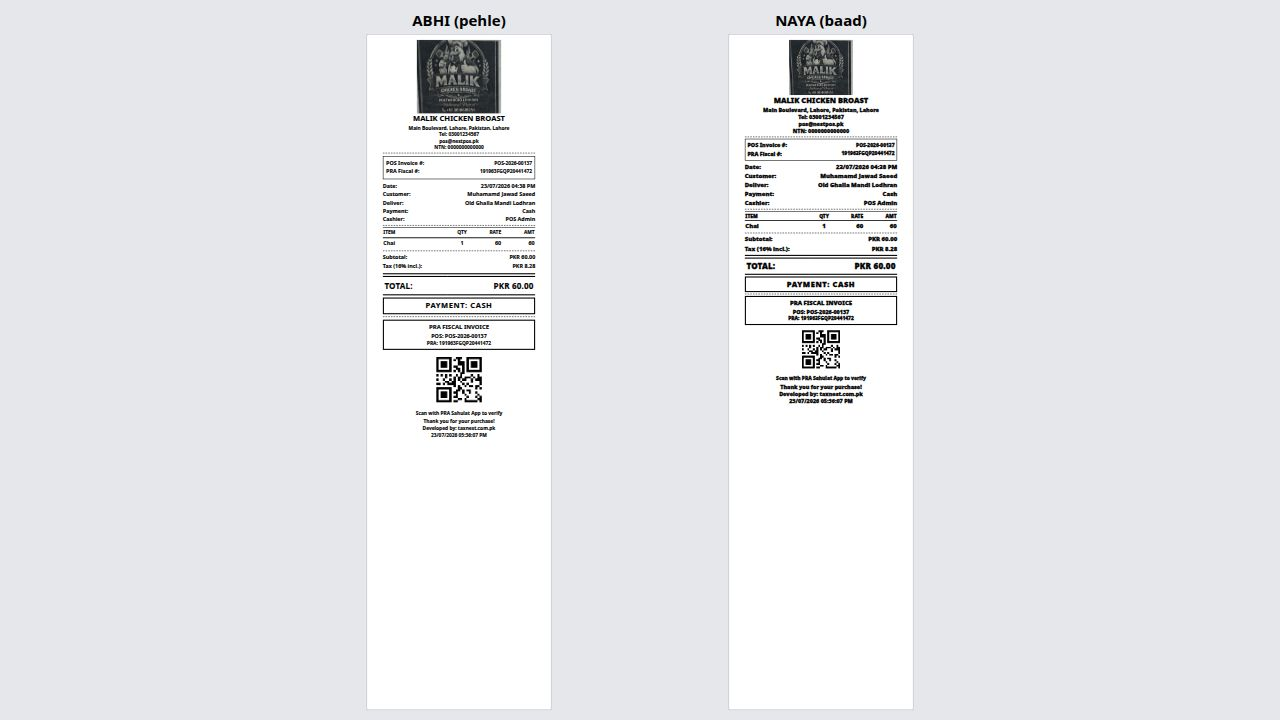
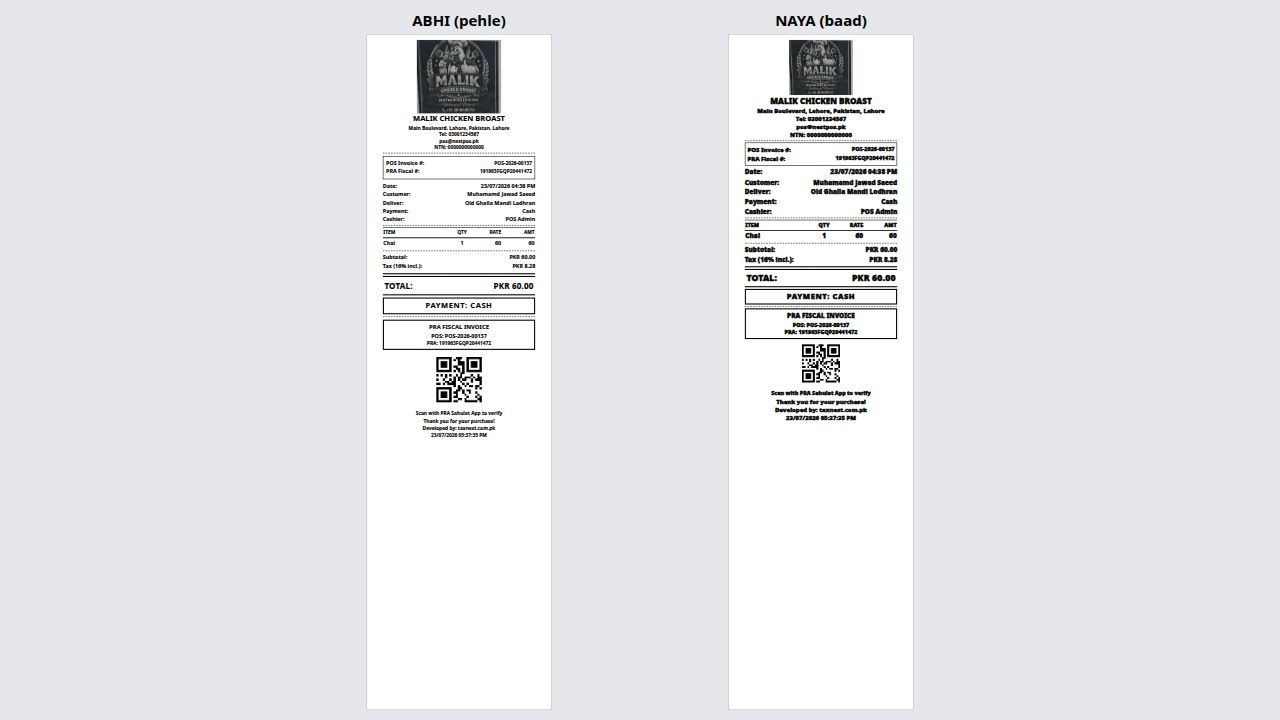
Improve receipt readability with bolder, clearer text and adjusted font sizes
Updated the 80mm receipt preview by increasing font sizes and stroke weights to enhance boldness and clarity, and updated the corresponding metadata and screenshot.

Replit-Commit-Author: Agent
Replit-Commit-Session-Id: 32ef7f7e-58d1-4e86-a1a3-f1c710f5c239
Replit-Commit-Checkpoint-Type: full_checkpoint
Replit-Commit-Event-Id: b35187a6-4695-4494-92fa-3cccfcc978b2
Replit-Commit-Screenshot-Url: https://storage.googleapis.com/screenshot-production-us-central1/deeb2ffc-615d-44ed-a0cd-b1cde9f84756/32ef7f7e-58d1-4e86-a1a3-f1c710f5c239/bzFriZn
Replit-Helium-Checkpoint-Created: true

Changed region(s): [[0.5625, 0.1222, 0.7188, 0.6111]]

diff --git a/resources/views/pos/receipts/receipt_80mm_preview_after.blade.php b/resources/views/pos/receipts/receipt_80mm_preview_after.blade.php
@@ -39,23 +39,23 @@
         .double-separator { border-top: 2px solid #000; margin: 2px 0; }
 
         .header { margin-bottom: 2px; }
-        .header h1 { font-size: 14px; font-weight: bold; margin-bottom: 2px; word-wrap: break-word; color: #000; }
-        .header p { font-size: 10px; line-height: 1.35; word-wrap: break-word; color: #000; font-weight: normal; }
+        .header h1 { font-size: 15px; font-weight: bold; margin-bottom: 2px; word-wrap: break-word; color: #000; }
+        .header p { font-size: 11px; line-height: 1.35; word-wrap: break-word; color: #000; font-weight: normal; }
 
         .info-table { width: 100%; border-collapse: collapse; margin: 2px 0; }
-        .info-table td { font-size: 11px; padding: 1px 0; vertical-align: top; color: #000; font-weight: normal; }
+        .info-table td { font-size: 12px; padding: 1px 0; vertical-align: top; color: #000; font-weight: normal; }
         .info-table .info-label { width: 32%; white-space: nowrap; color: #000; }
         .info-table .info-value { width: 68%; text-align: right; word-wrap: break-word; color: #000; }
 
         .invoice-numbers { border: 1.5px solid #000; padding: 4px; margin: 3px 0; }
         .inv-table { width: 100%; border-collapse: collapse; }
-        .inv-table td { font-size: 10px; padding: 1px 0; vertical-align: top; color: #000; }
+        .inv-table td { font-size: 11px; padding: 1px 0; vertical-align: top; color: #000; }
         .inv-table .inv-label { white-space: nowrap; width: 35%; color: #000; }
-        .inv-table .inv-value { text-align: right; word-wrap: break-word; overflow-wrap: break-word; word-break: break-all; font-family: Arial, 'Helvetica Neue', Helvetica, sans-serif; font-size: 9px; font-weight: bold; color: #000; }
+        .inv-table .inv-value { text-align: right; word-wrap: break-word; overflow-wrap: break-word; word-break: break-all; font-family: Arial, 'Helvetica Neue', Helvetica, sans-serif; font-size: 10px; font-weight: bold; color: #000; }
 
         .items-table { width: 100%; margin: 3px 0; border-collapse: collapse; table-layout: fixed; }
-        .items-table th { font-size: 9px; text-transform: uppercase; border-bottom: 1.5px solid #000; border-top: 1.5px solid #000; padding: 2px 1px; text-align: left; font-weight: normal; color: #000; }
-        .items-table td { font-size: 11px; padding: 2px 1px; vertical-align: top; word-wrap: break-word; overflow-wrap: break-word; color: #000; font-weight: normal; }
+        .items-table th { font-size: 10px; text-transform: uppercase; border-bottom: 1.5px solid #000; border-top: 1.5px solid #000; padding: 2px 1px; text-align: left; font-weight: normal; color: #000; }
+        .items-table td { font-size: 12px; padding: 2px 1px; vertical-align: top; word-wrap: break-word; overflow-wrap: break-word; color: #000; font-weight: normal; }
         .items-table .col-item { width: 44%; text-align: left; }
         .items-table .col-qty { width: 16%; text-align: center; white-space: nowrap; font-variant-numeric: tabular-nums; }
         .items-table .col-rate { width: 18%; text-align: right; }
@@ -66,20 +66,20 @@
         .exempt-note { font-size: 9px; font-weight: normal; color: #000; text-align: center; margin: 3px 0 2px; padding: 2px 0; border-top: 1px dashed #000; border-bottom: 1px dashed #000; letter-spacing: 0.4px; }
 
         .totals-table { width: 100%; border-collapse: collapse; margin: 3px 0; }
-        .totals-table td { font-size: 11px; padding: 1px 0; vertical-align: top; color: #000; font-weight: normal; }
+        .totals-table td { font-size: 12px; padding: 1px 0; vertical-align: top; color: #000; font-weight: normal; }
         .totals-table .tot-label { text-align: left; color: #000; }
         .totals-table .tot-value { text-align: right; white-space: nowrap; color: #000; }
-        .totals-table .grand-total td { font-size: 15px; font-weight: bold; padding: 4px 3px; color: #000; border-top: 2.5px solid #000; border-bottom: 2.5px solid #000; letter-spacing: 0.3px; }
+        .totals-table .grand-total td { font-size: 16px; font-weight: bold; padding: 4px 3px; color: #000; border-top: 2.5px solid #000; border-bottom: 2.5px solid #000; letter-spacing: 0.3px; }
 
         .pra-badge { border: 2px solid #000; padding: 4px; margin: 3px 0; text-align: center; font-size: 10px; overflow: hidden; color: #000; font-weight: normal; }
-        .pra-badge .pra-title { font-size: 11px; font-weight: bold; margin-bottom: 2px; color: #000; }
-        .pra-badge .pra-number { font-size: 9px; font-weight: bold; letter-spacing: 0; word-wrap: break-word; overflow-wrap: break-word; word-break: break-all; max-width: 100%; display: block; color: #000; }
+        .pra-badge .pra-title { font-size: 12px; font-weight: bold; margin-bottom: 2px; color: #000; }
+        .pra-badge .pra-number { font-size: 10px; font-weight: bold; letter-spacing: 0; word-wrap: break-word; overflow-wrap: break-word; word-break: break-all; max-width: 100%; display: block; color: #000; }
         .local-badge { border: 1.5px dashed #000; padding: 4px; margin: 3px 0; text-align: center; font-size: 10px; color: #000; font-weight: normal; }
         .qr-code { text-align: center; margin: 3px 0; }
         .qr-code img { width: 84px; height: 84px; }
-        .qr-code p { font-size: 9px; margin-top: 2px; color: #000; font-weight: normal; }
+        .qr-code p { font-size: 10px; margin-top: 2px; color: #000; font-weight: normal; }
 
-        .footer { margin-top: 3px; font-size: 10px; line-height: 1.35; color: #000; font-weight: normal; }
+        .footer { margin-top: 3px; font-size: 11px; line-height: 1.35; color: #000; font-weight: normal; }
 
         @media print {
             /* PRINTABLE-WIDTH FIX v2 (owner report Jul 2026 — right edge STILL cut):
@@ -118,7 +118,7 @@
            plain weight too thin/light. Opt-in per company (Receipt Settings);
            the text stroke lays down extra ink like the KOT notes fix. */
         body, td, th, p, span, div, h1, strong { font-weight: 900 !important; }
-        body { -webkit-text-stroke: 0.5px #000; }
+        body { -webkit-text-stroke: 0.75px #000; }
     </style>
     @endif
 </head>
